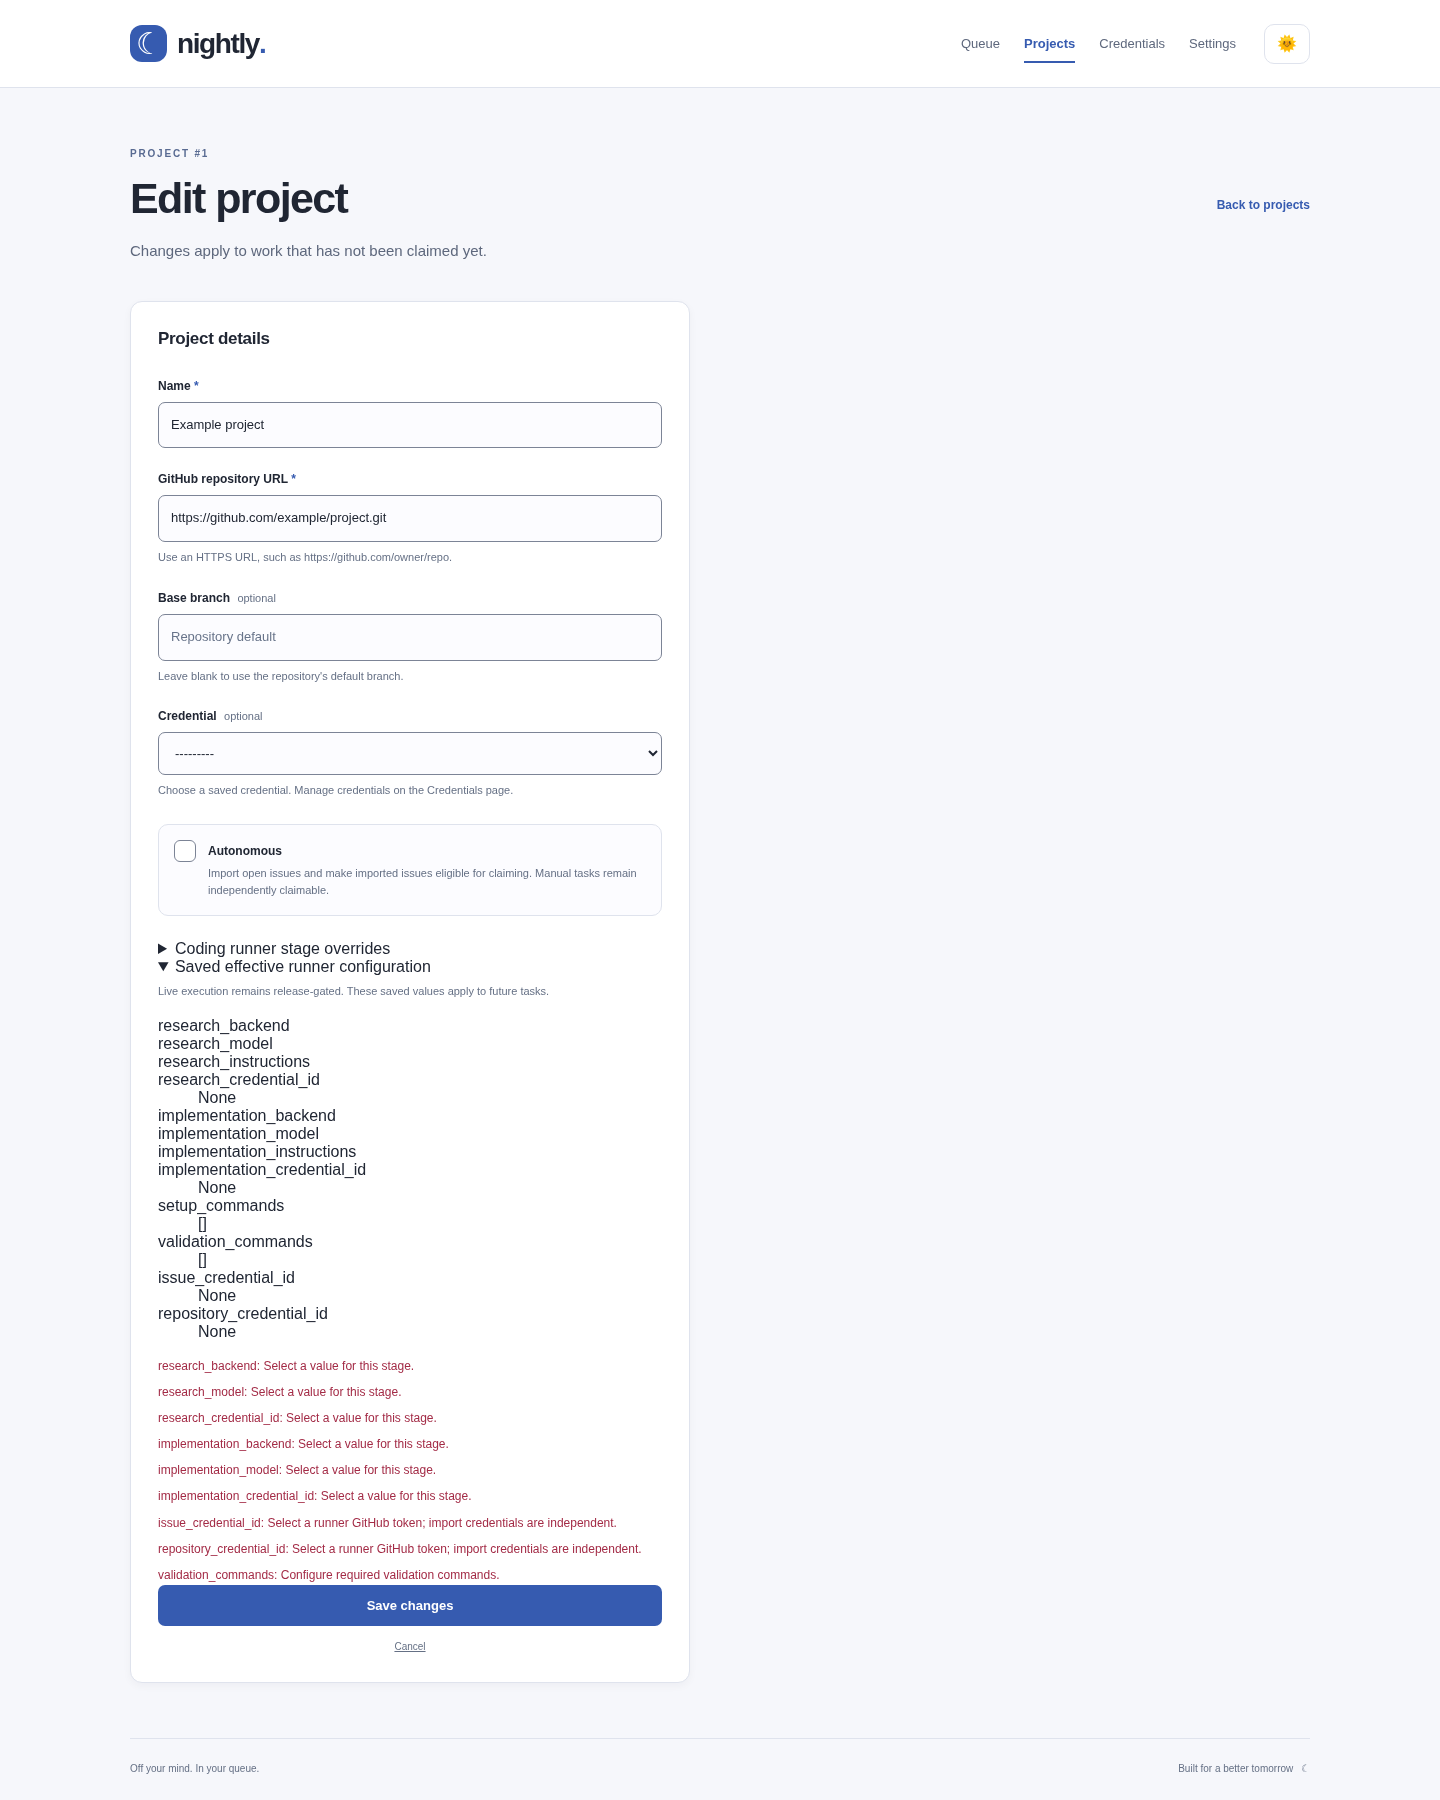
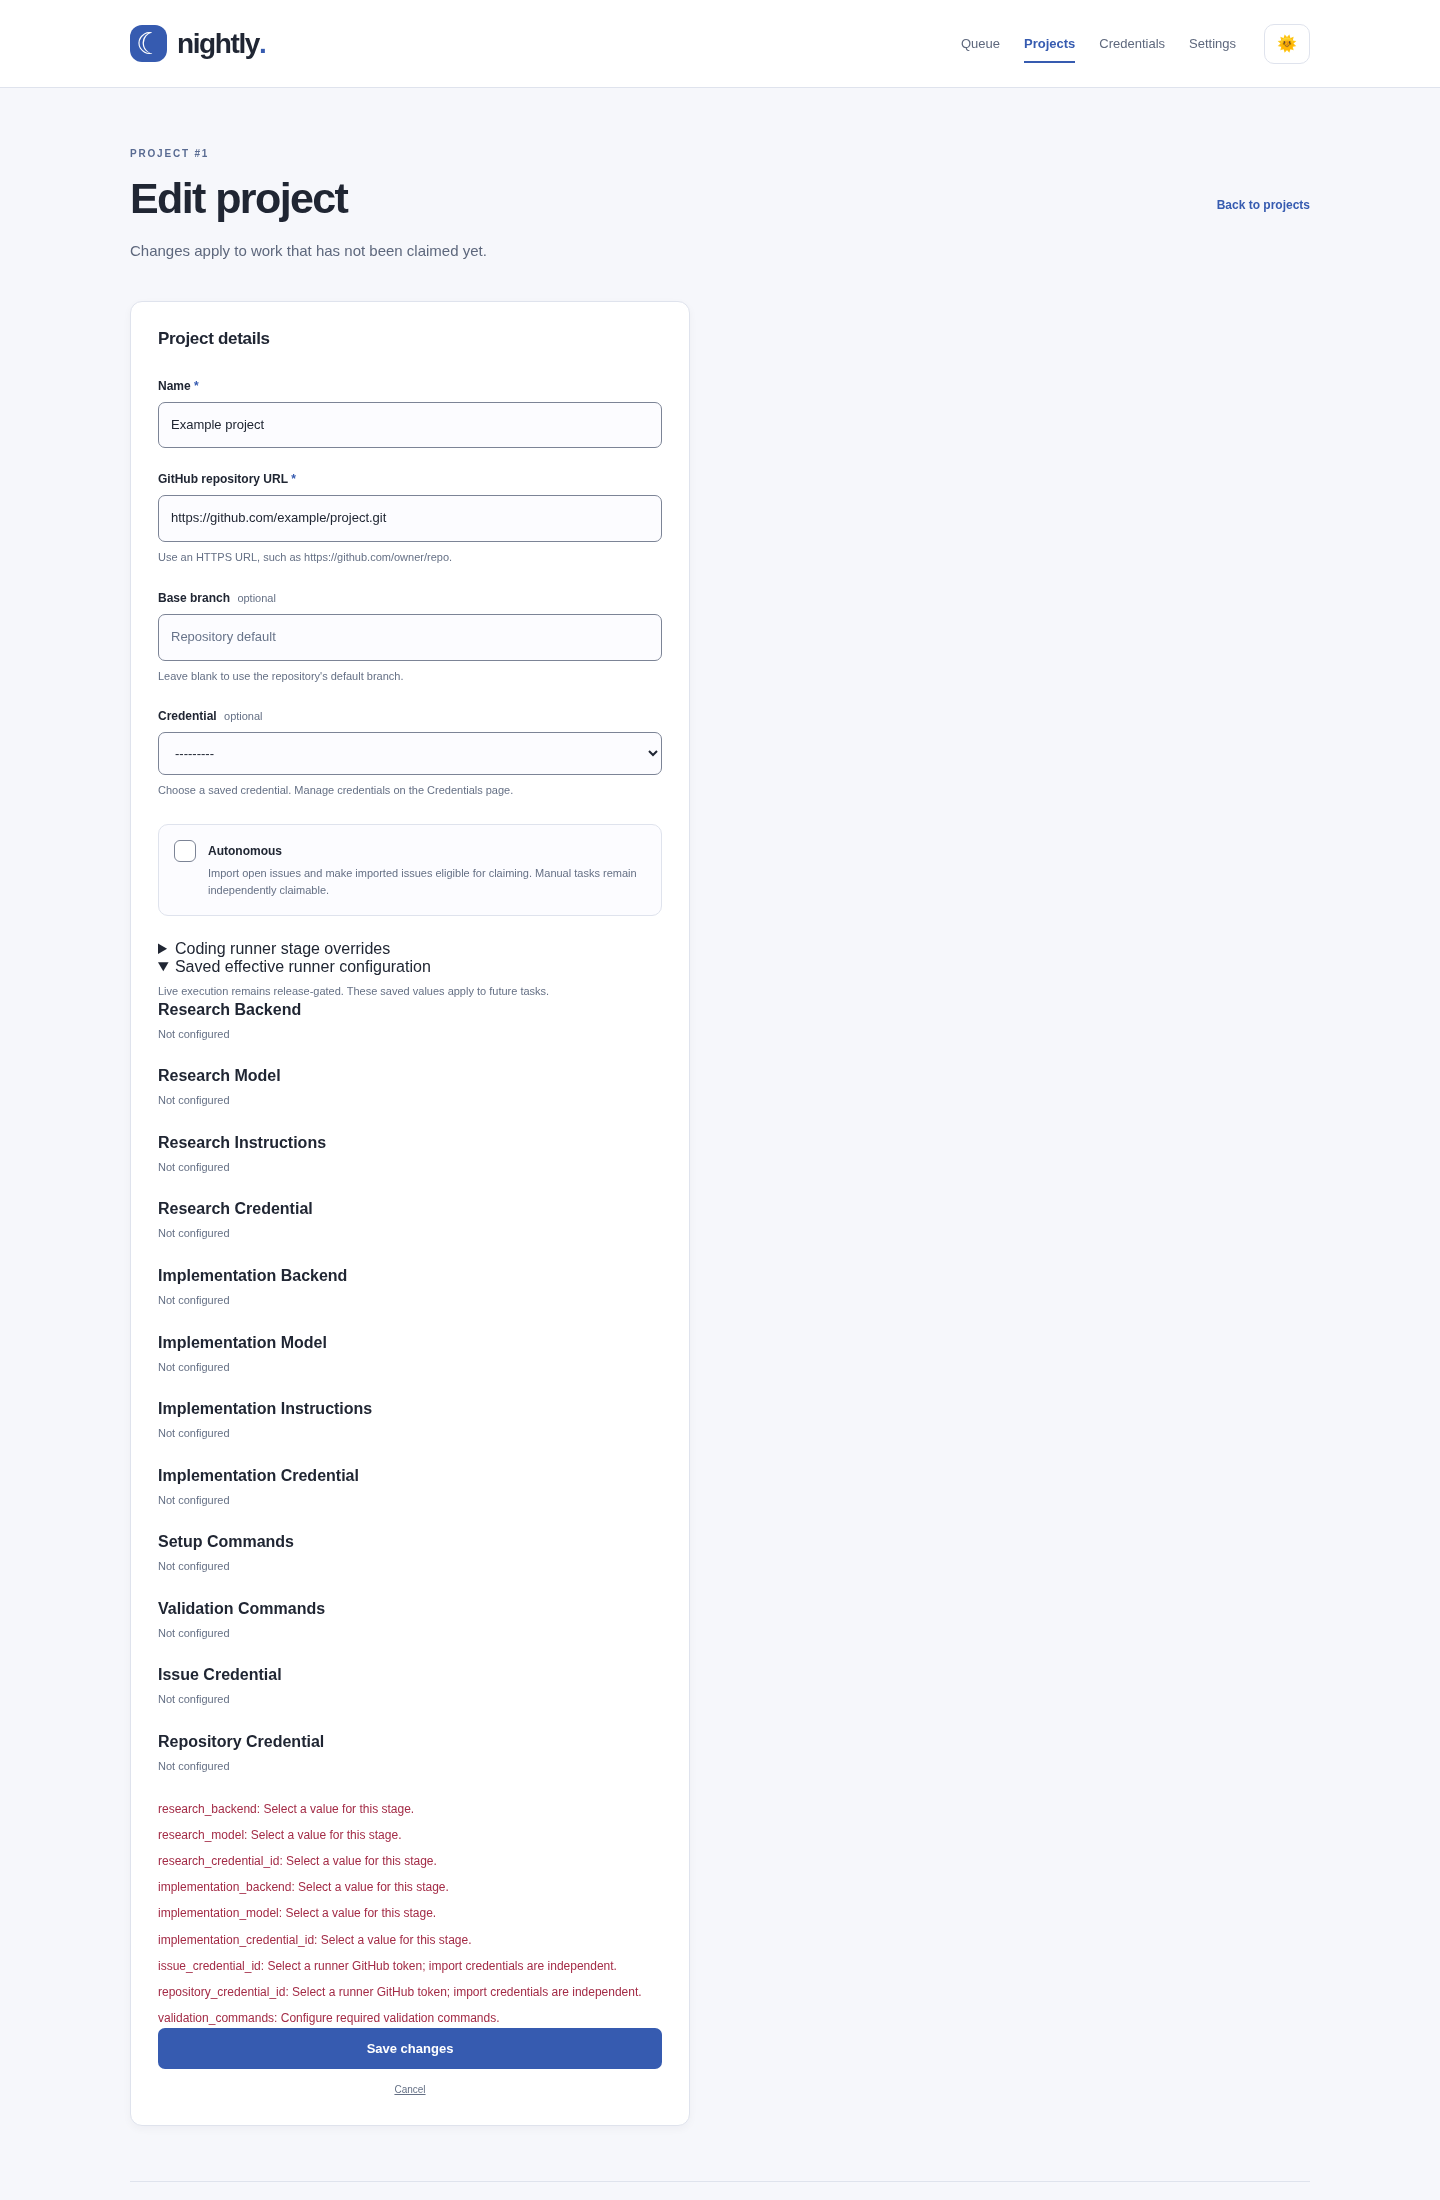
Document implemented configuration and refresh UI screenshots

diff --git a/README.md b/README.md
@@ -194,10 +194,10 @@ The planned `coding-runner` service will:
    original issue, then report the actual PR URL to the queue.
 
 Django owns queue state, saved plans, run visibility, and all runner settings in
-the web UI. Settings will include processing days/time ranges and timezone, a
+the web UI. The Coding runner section includes processing days/time ranges and timezone, a
 global minimum remaining-usage percentage, execution limits, research/planning
 and implementation backends/models, credential selections, and retention. Project
-pages will provide overrides plus setup and validation commands. Celery
+pages provide explicit inherit/replace/clear overrides plus setup and validation commands. Celery
 Beat and its worker continue to own scheduled issue discovery. Issue sync and
 coding execution have separate schedules. The Celery greeting task remains a demo.
 
@@ -222,9 +222,11 @@ connectivity/authentication, encryption keys, and container/volume wiring remain
 deployment configuration. Commands arriving as untrusted issue or research data
 require user confirmation before execution, surfaced through the web UI.
 
-The service, comment retrieval, research/planning handoff, runner settings UI,
-credential delivery, and recovery behavior are not implemented yet. The current
-Settings page only configures API credentials and the issue-import interval.
+Runner settings, effective configuration, selected-account inventory, and atomic
+claim snapshots are implemented; see [configuration schema and behavior](docs/runner-settings.md).
+Execution defaults disabled and remains release-gated even when enabled is saved.
+The service, comment retrieval, research/planning handoff, credential delivery,
+and recovery behavior require their separate implementation branches.
 See [the implementation plan](docs/coding-runner.md) for scope and acceptance criteria.
 The [feature-branch backlog](docs/runner-feature-branches.md) compares the current
 code with that architecture and lays out implementation dependencies and checks.

diff --git a/docs/coding-runner.md b/docs/coding-runner.md
@@ -10,8 +10,9 @@ The next execution component is a dedicated `coding-runner` Docker Compose servi
 in this repository. This document defines the planned implementation. The current
 stack stores tasks, imports GitHub issues, and exposes claim/finish APIs; it does
 not fetch issue comments, research solutions, generate implementation plans,
-execute coding tasks, or create pull requests. The workflow and web settings below
-are planned behavior, not currently available features.
+execute coding tasks, or create pull requests. The workflow below remains planned. The runner settings and effective configuration
+contract are implemented in [runner settings](runner-settings.md); execution remains
+disabled pending the runtime and controlled release checks.
 
 ## Responsibilities
 
